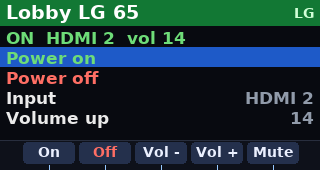
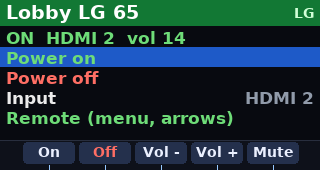
Nomad Display Control 0.3.0: Check, wake hint, TV remote
Claude-Session: https://claude.ai/code/session_01GkgDxbeYmt6ZeAKM4XAnMM

Changed region(s): [[0.0, 0.6471, 0.75, 0.7647], [0.9062, 0.6471, 1.0, 0.7353]]

diff --git a/display-control/nomaddisp/__init__.py b/display-control/nomaddisp/__init__.py
@@ -1,2 +1,2 @@
 """Nomad Display Control: control TVs and projectors over the network."""
-__version__ = "0.2.0"
+__version__ = "0.3.0"
